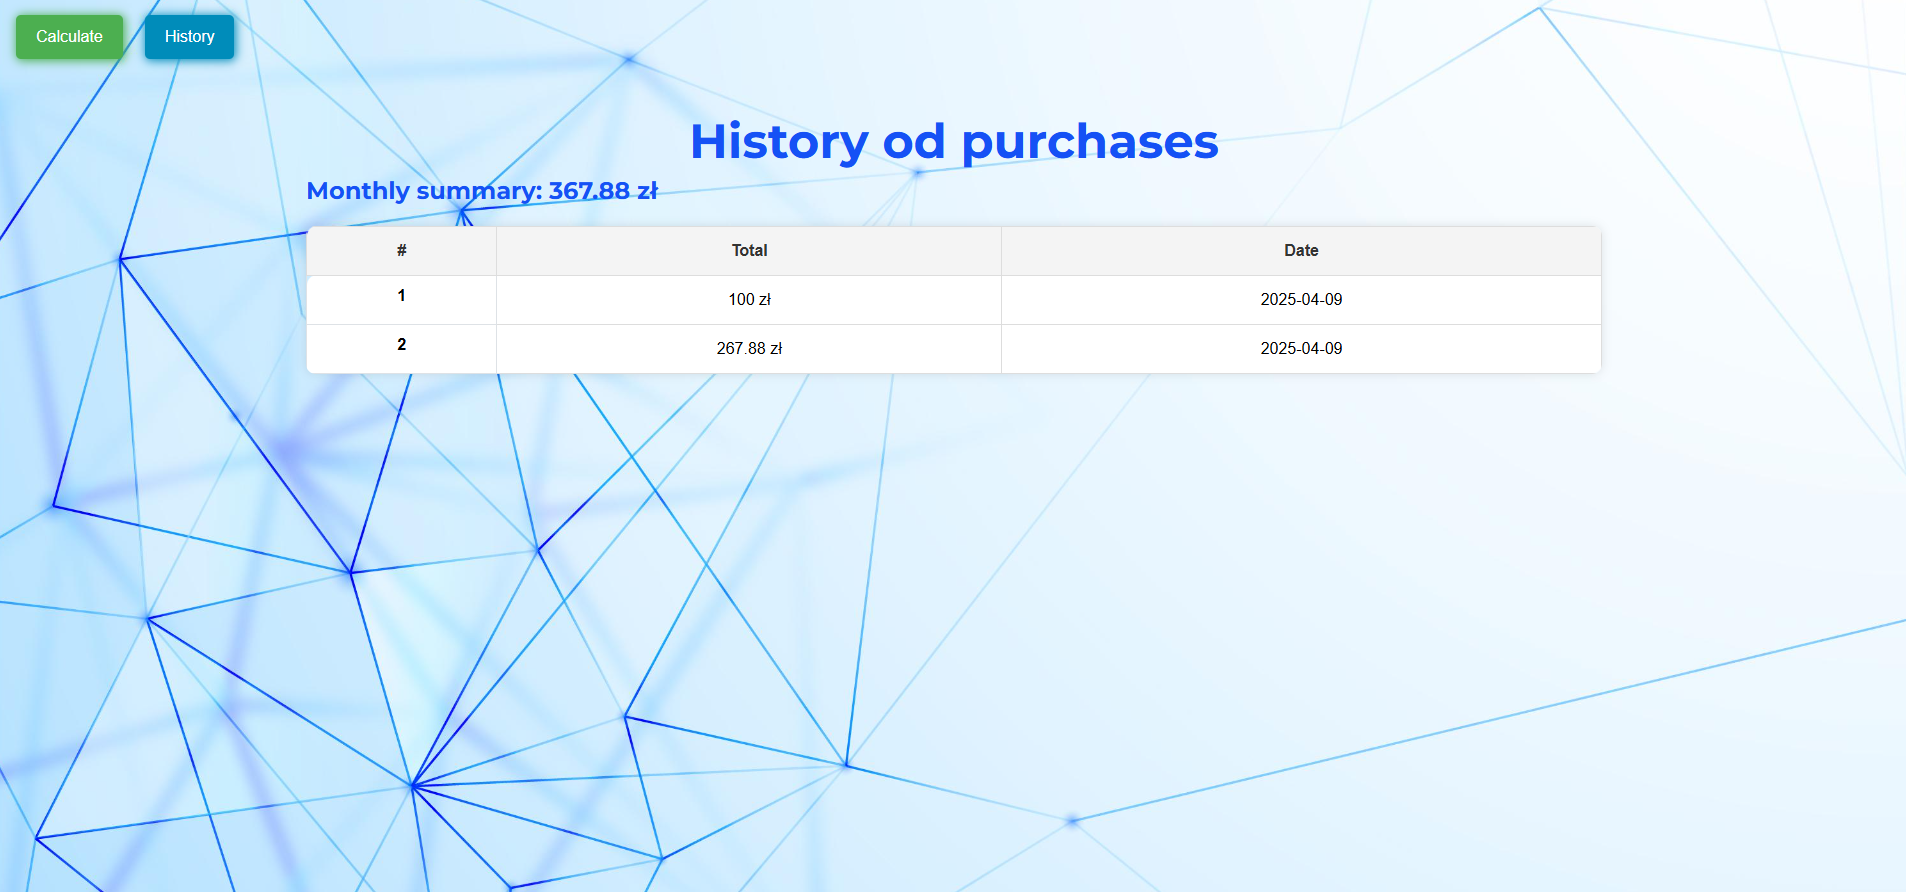
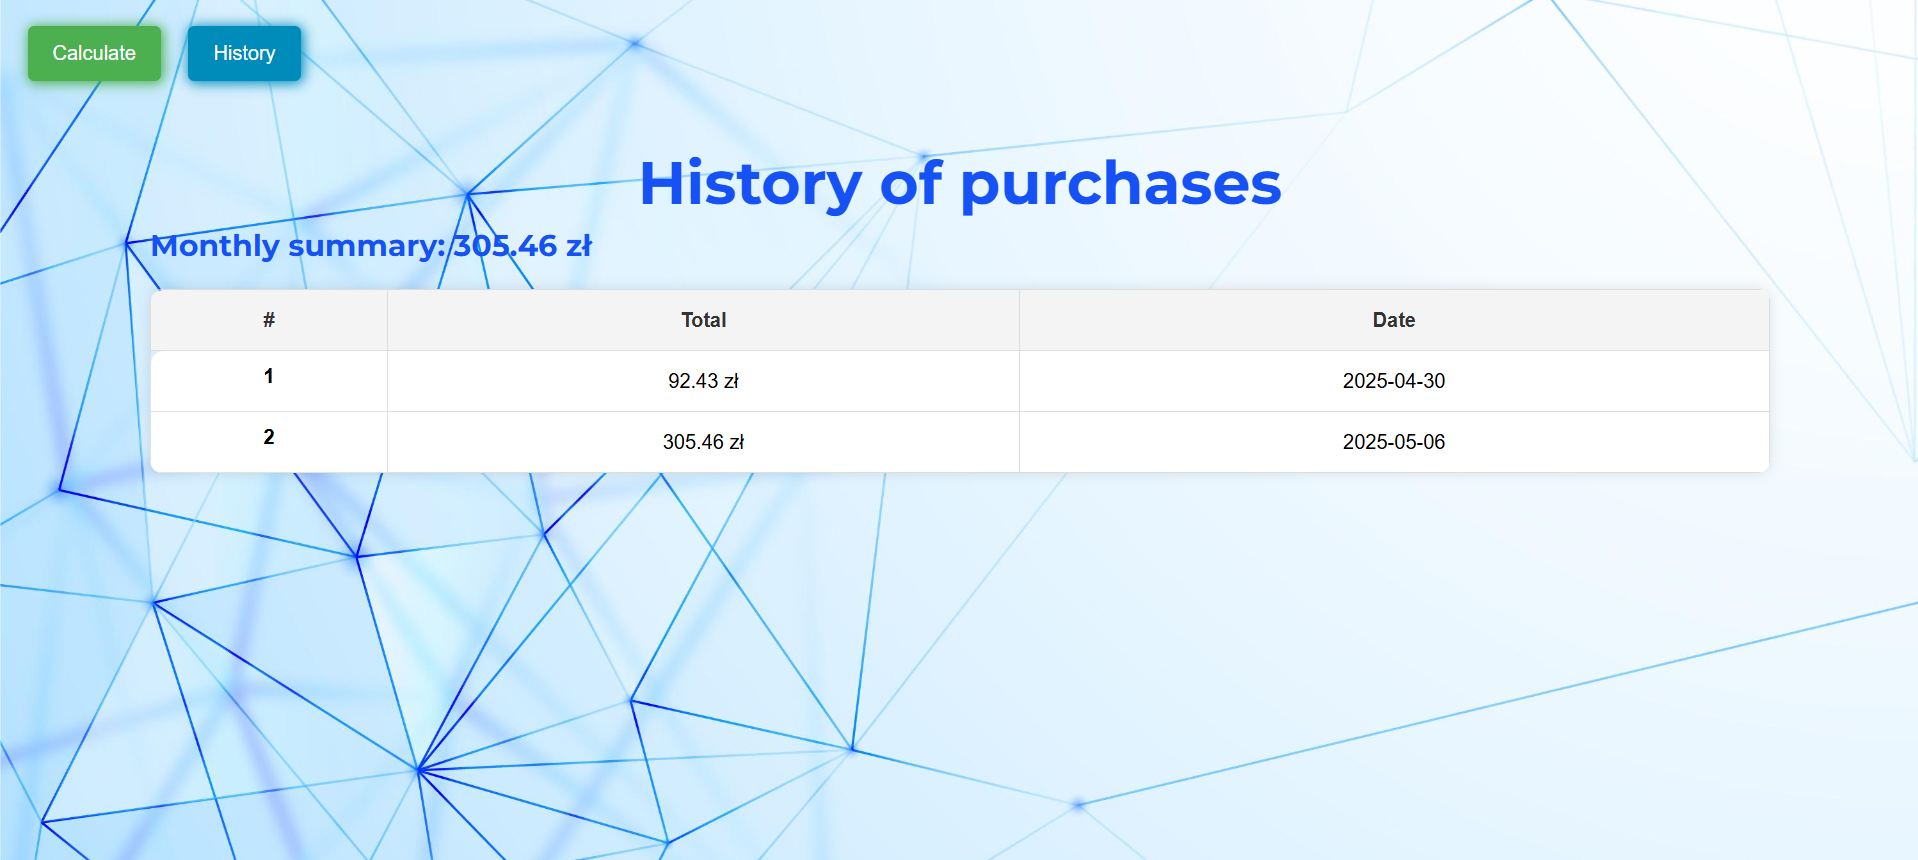
Small corrections

diff --git a/frontend/src/components/PriceTable.jsx b/frontend/src/components/PriceTable.jsx
@@ -9,6 +9,7 @@ function PriceTable() {
   const [names, setNames] = useState(["Name1", "Name2", "Name3"]);
   const [error, setError] = useState("");
   const [total, setTotal] = useState("");
+  const [totalValueCalculated, setTotalValueCalculated] = useState(0);
   const [submit, setSubmit] = useState(null);
   const [userTotal, setUserTotal] = useState({});
 
@@ -91,6 +92,7 @@ function PriceTable() {
 
     const totalPrice = prices.reduce((acc, row) => acc + row.price, 0);
     const totalValue = parseFloat(total);
+    setTotalValueCalculated(totalPrice);
 
     if (isNaN(totalValue)) {
       setSubmit(null);
@@ -209,8 +211,17 @@ function PriceTable() {
 
       {submit !== null && (
         <div className="alert alert-info">
-          {submit === 1 && <p>Total is greater than the sum of prices.</p>}
-          {submit === 2 && <p>Total is less than the sum of prices.</p>}
+          {submit === 1 && (
+            <p>
+              Total is greater than the sum of prices ({totalValueCalculated}{" "}
+              PLN).
+            </p>
+          )}
+          {submit === 2 && (
+            <p>
+              Total is less than the sum of prices ({totalValueCalculated} PLN).
+            </p>
+          )}
           {submit === 0 && <p>Total matches the sum of prices.</p>}
         </div>
       )}

diff --git a/frontend/src/pages/HistoryPage.jsx b/frontend/src/pages/HistoryPage.jsx
@@ -55,7 +55,7 @@ function History() {
   return (
     <>
       <div className="container mt-4">
-        <div className="header">History od purchases</div>
+        <div className="header">History of purchases</div>
         <h5>Monthly summary: {monthlyTotal} zł</h5>
         <table className="table table-bordered">
           <thead>
